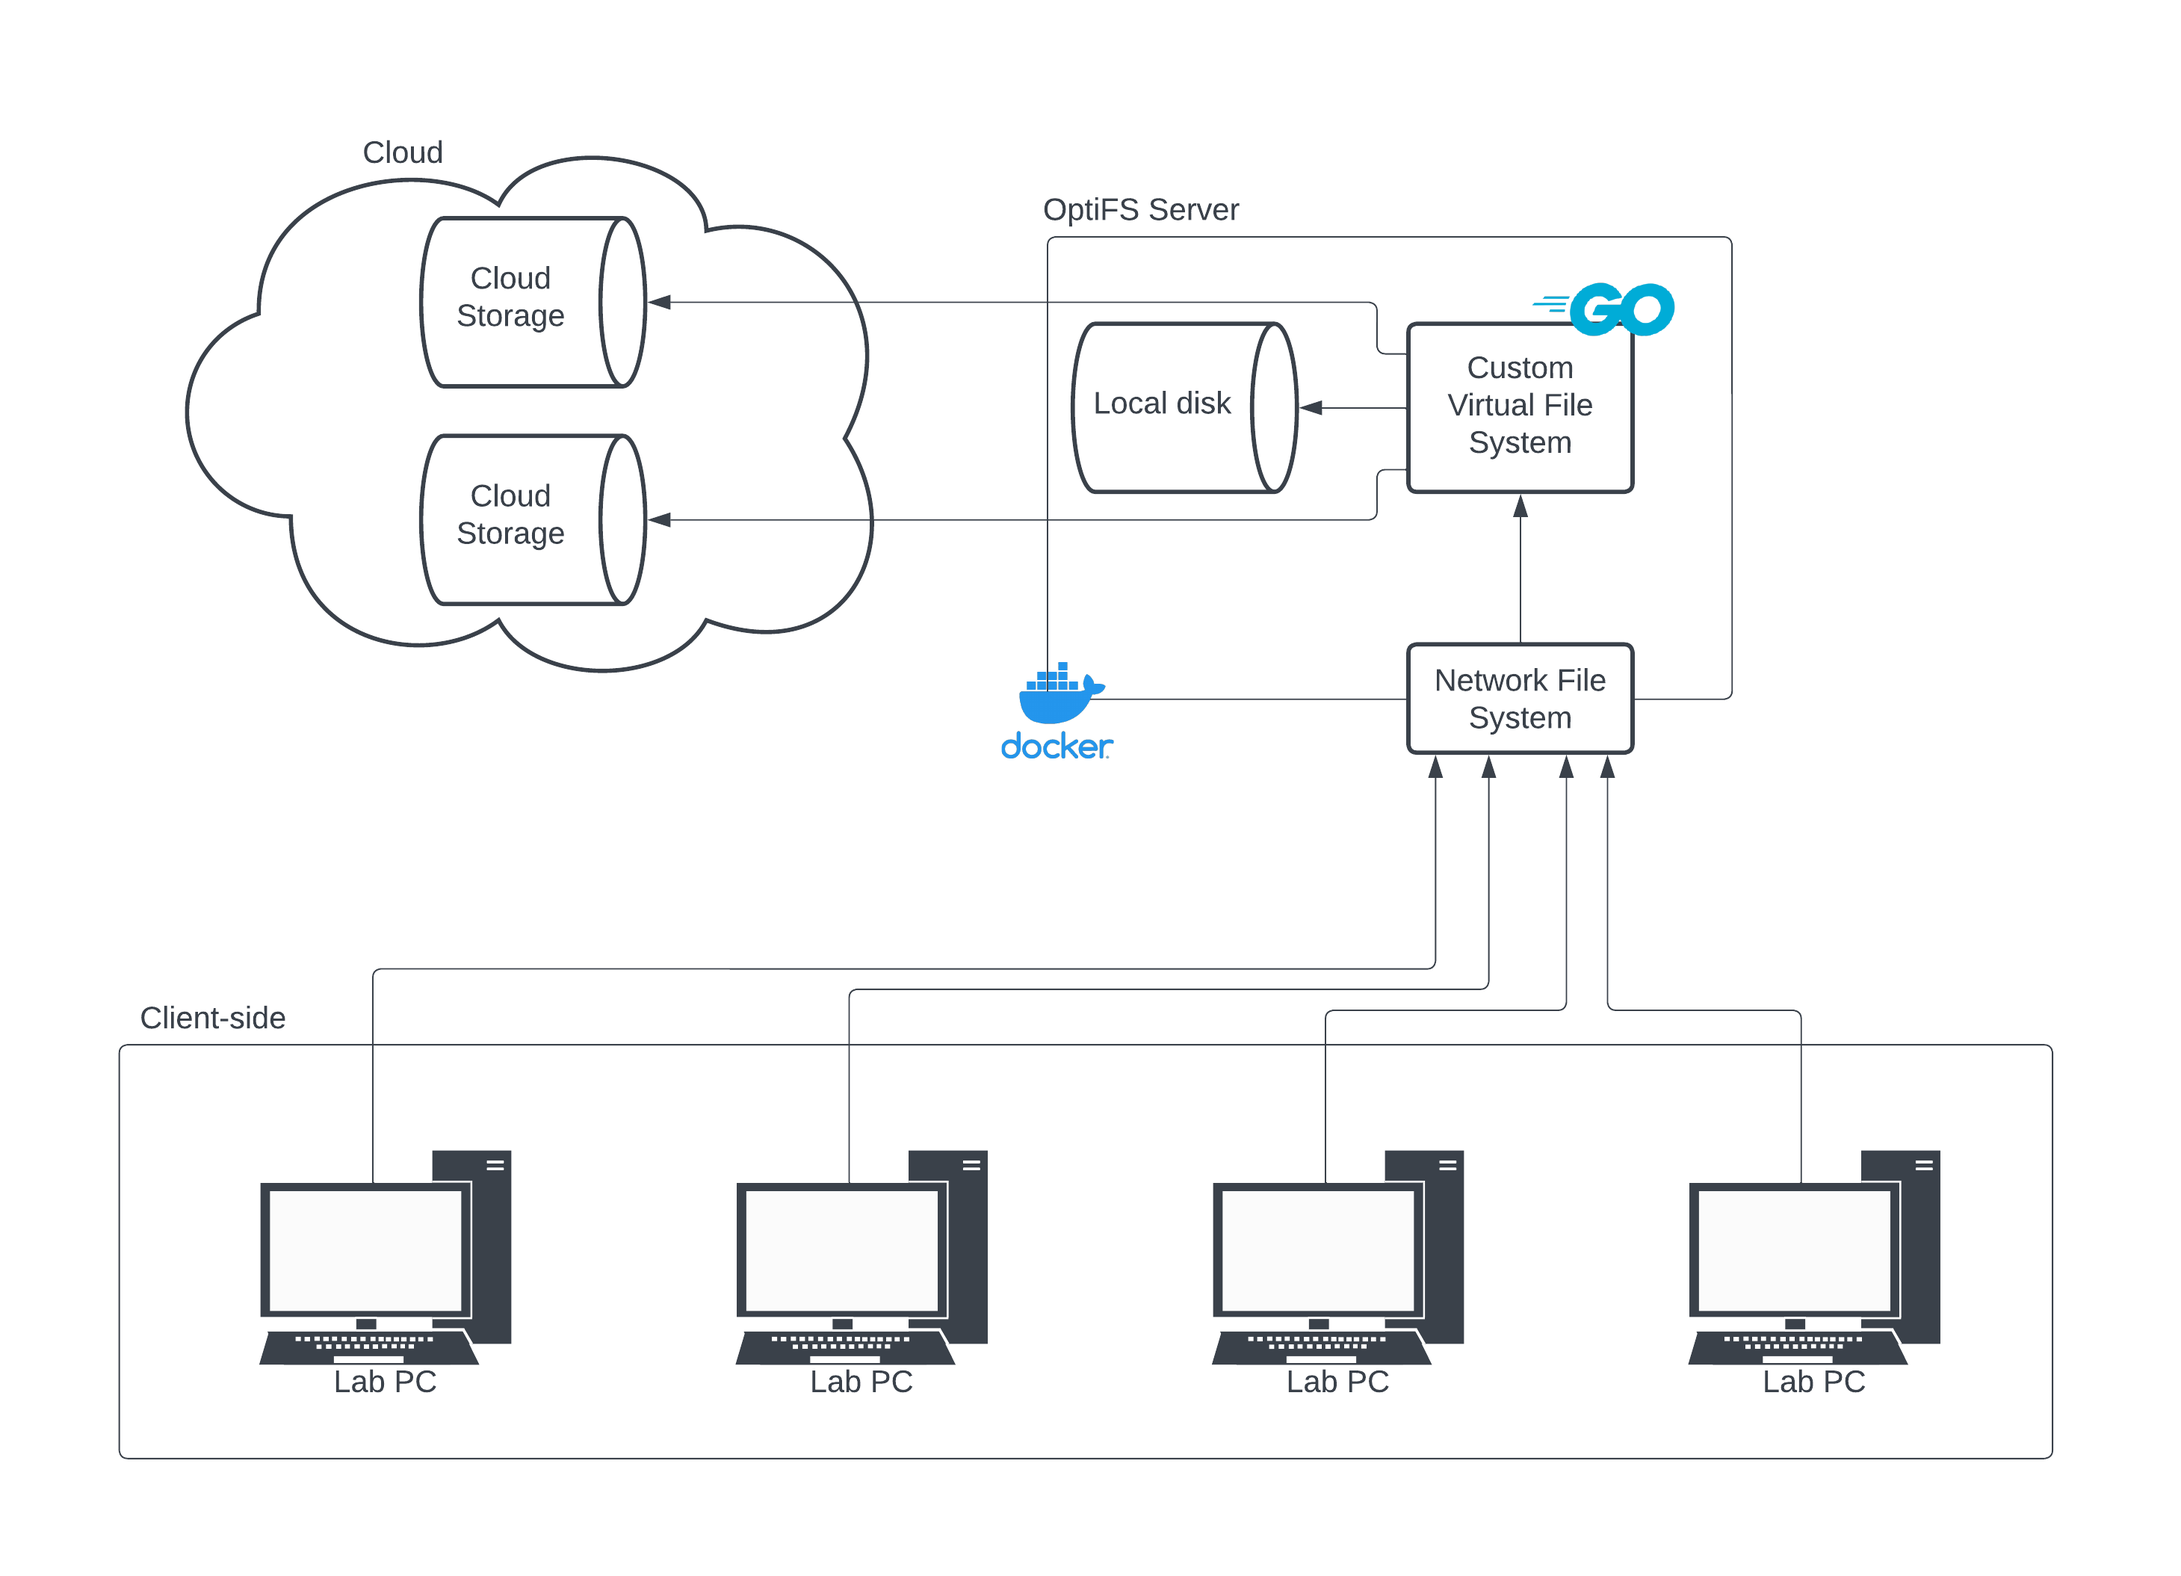
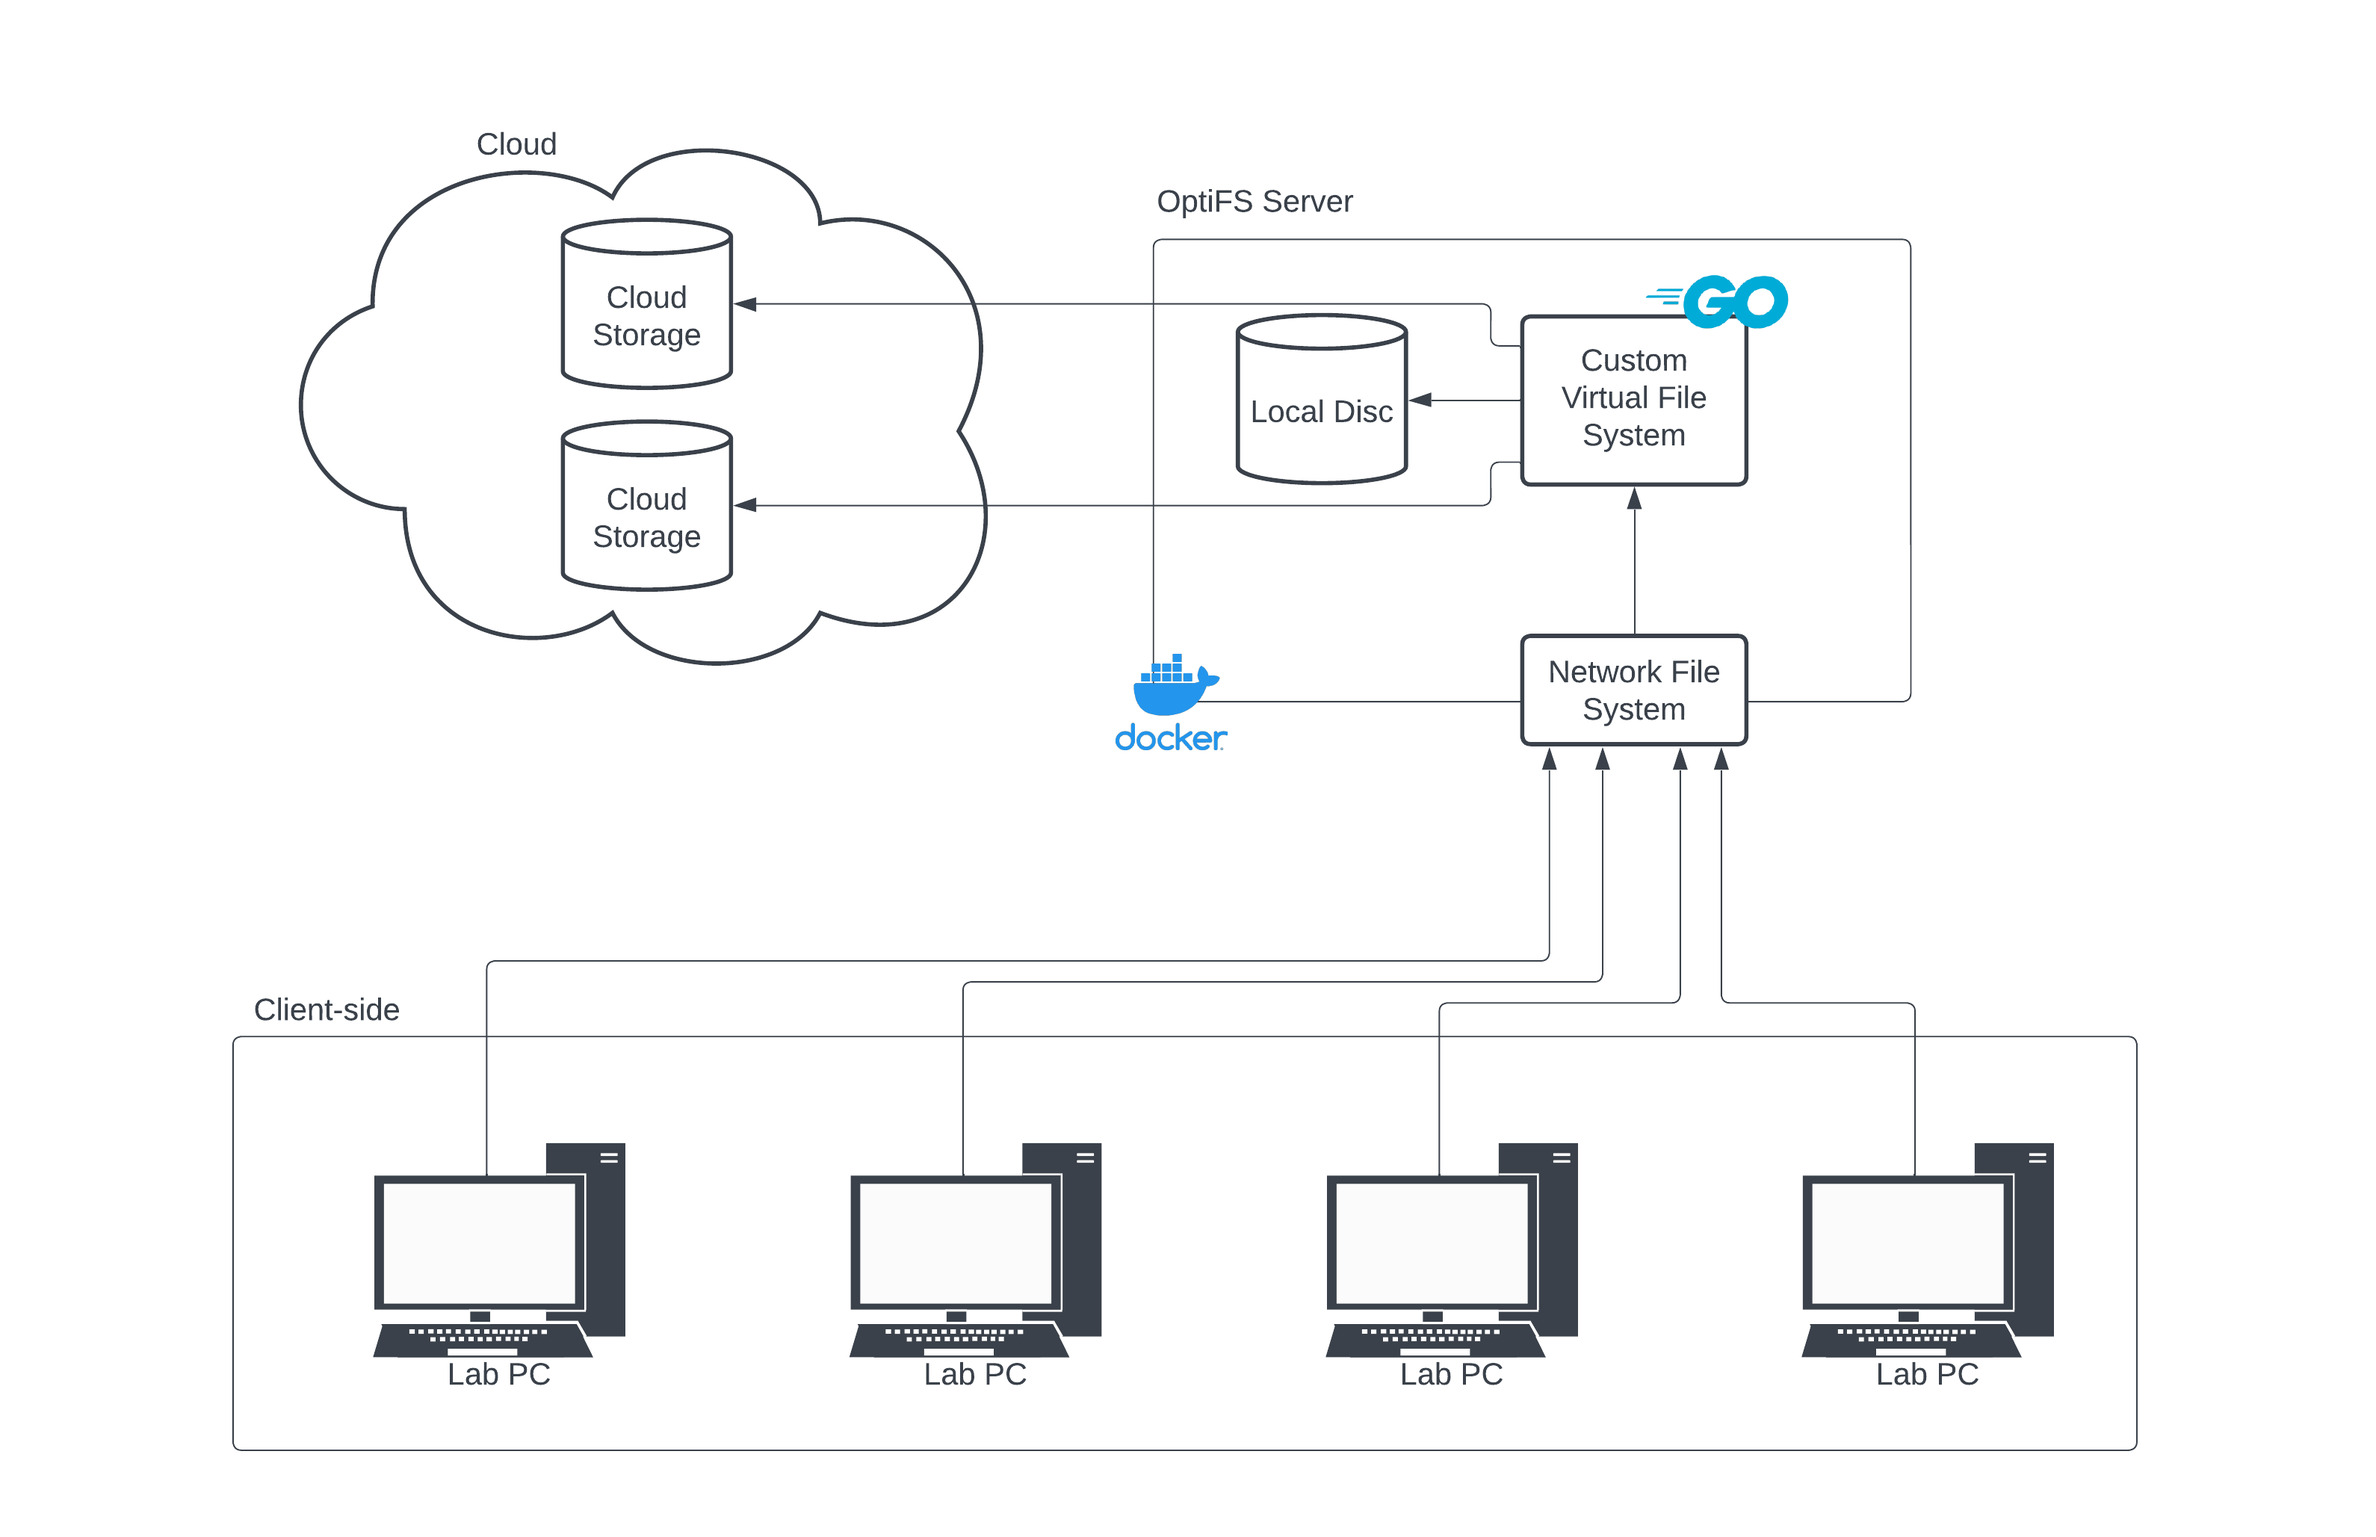
Fixed points brought up in meeting with Stephen.

diff --git a/functional_spec/functional_spec.md b/functional_spec/functional_spec.md
@@ -46,13 +46,19 @@
 ## 1.1 Overview
 The system is a storage solution for large groups of machines accessing a shared file system through Network File System (NFS). The system’s application is intended for computer lab environments, where there is a sizable cohort of users and substantial demand on the machines where optimisation and efficiency is required.
 
-There is a need for this system, particularly in the setting of the computer labs in Dublin City University, as storage quotas are difficult to stay under - an exponentially more difficult task as demand for storage increases. This solution allows computer labs to be implemented in a far more scalable and efficient manner from a user data perspective.
+There is a need for this system, particularly in the setting of the computer labs in Dublin City University, as storage quotas are difficult to stay under - which becomes more strenuous as demand for storage increases. This solution allows computer labs to be implemented in a far more scalable and efficient manner from a user data perspective.
 
 The primary system function will be to optimise the storage efficiency of user cohorts’ information by getting rid of duplicate files, whilst still allowing multiple users to own said files. 
 
 Secondary system functions are to optimise file retrieval speeds from the OptiFS server by implementing a caching system for regularly retrieved files and to allow the viewing and retrieval of files through the internet via a website, allowing users to access their file system contents on-the-go. These functionalities are stretch-goals that will be implemented depending on progress made as the project deadline approaches.
 
 The system will be fully compatible with existing computer lab systems and directly implemented on the NFS server that already handles user data.
+
+Here is a visualisation of the system:
+**Minimum Viable Product**
+![A system architecture diagram of the minimum viable product of the proposed system](MVP_System_Architecture.png)
+
+_Note: Any item denoted by an asterisk (*) throughout this document is in relation to one of our stretch goals._
 
 ## 1.2 Business Context
 This system will be fully compatible with any existing computer lab system powered by NFS and could be easily deployed in the Dublin City University’s McNulty building computer labs.
